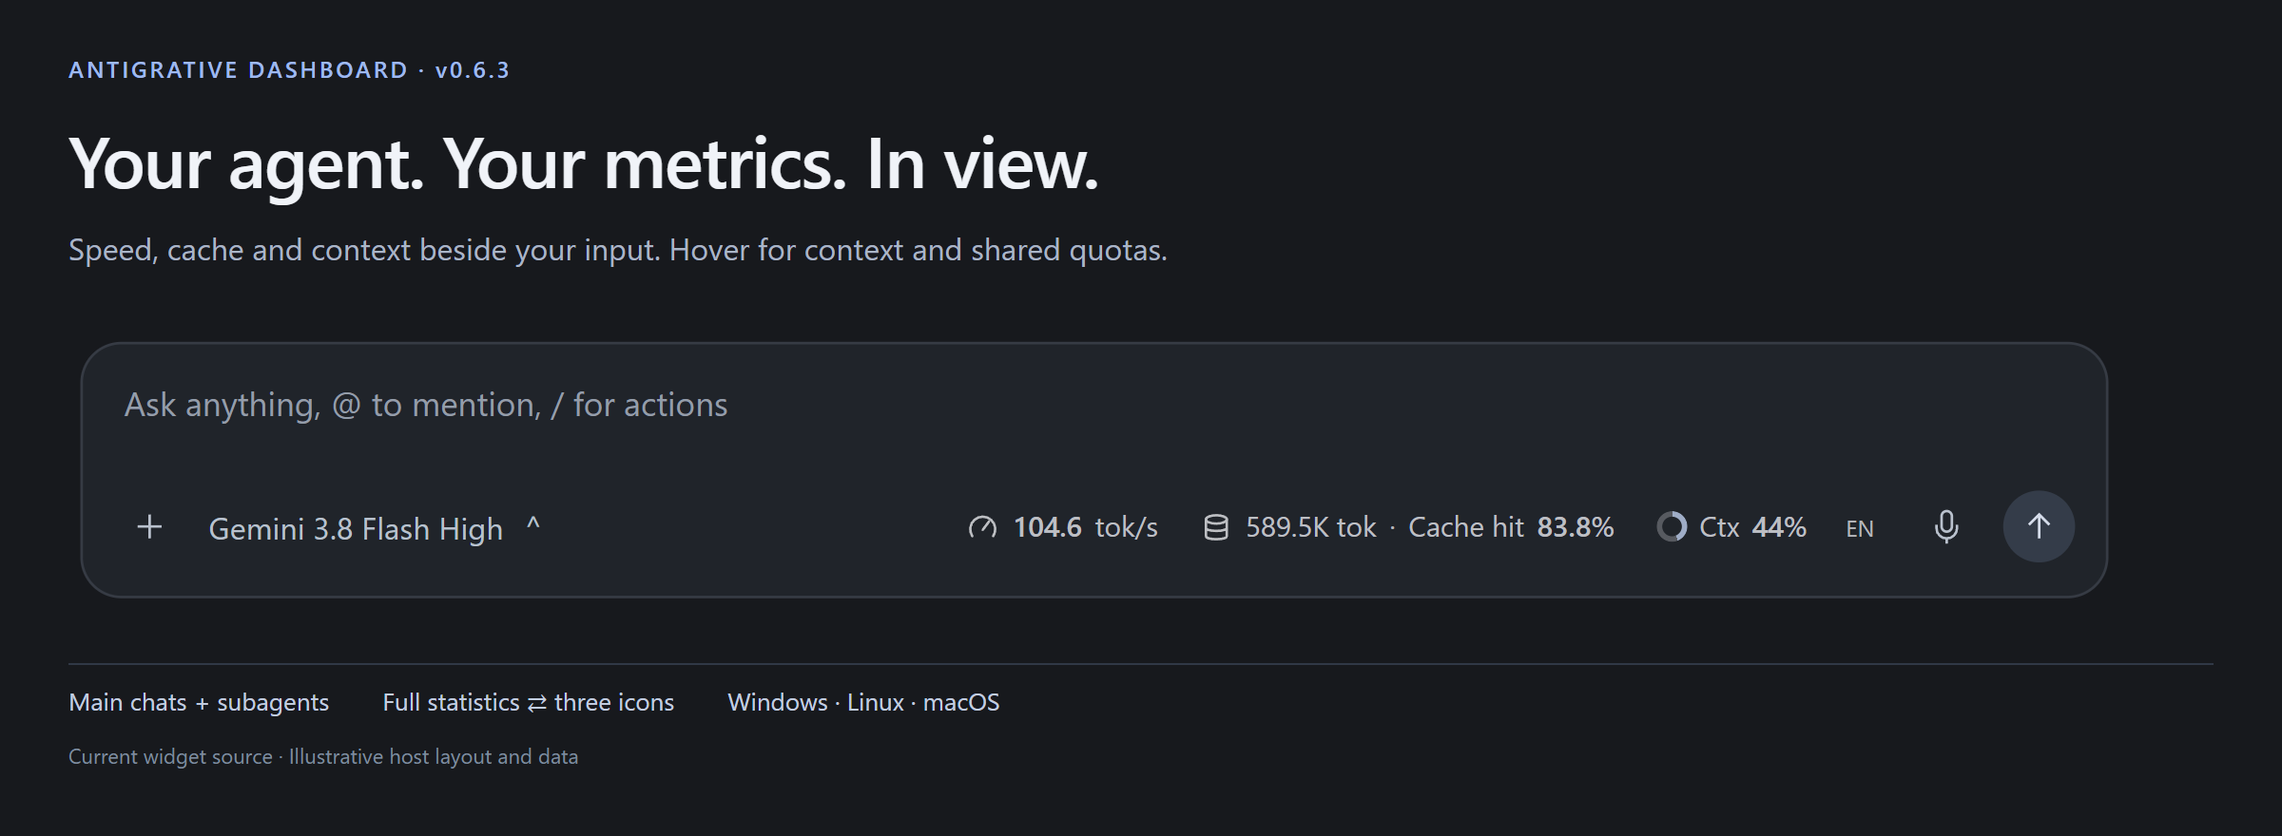
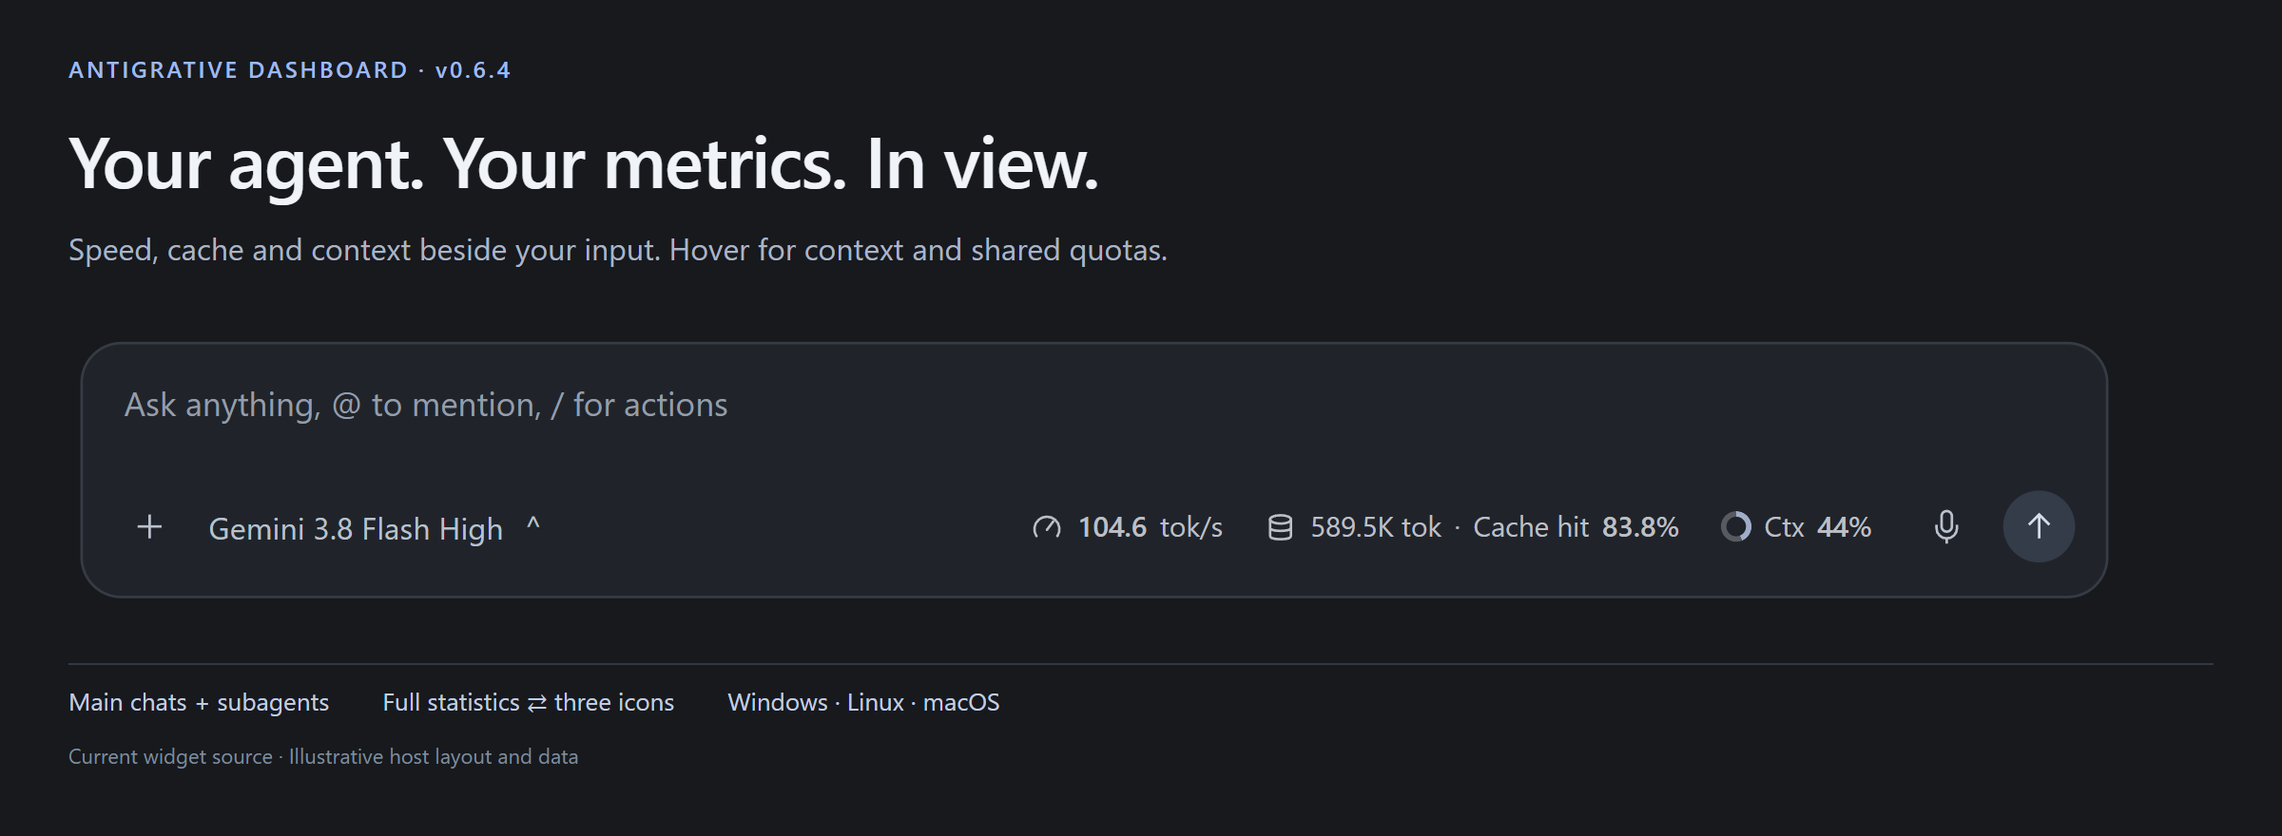
Release v0.6.4: streamline language settings and protect native controls

Changed region(s): [[0.4062, 0.6136, 0.8438, 0.6443]]

diff --git a/GITHUB_RELEASE.md b/GITHUB_RELEASE.md
@@ -1,63 +1,50 @@
-# Antigrative Dashboard v0.6.3
+# Antigrative Dashboard v0.6.4
 
-## Release gate correction
+## Language settings and first-use guidance
 
-- v0.6.2 was not published: the macOS animation-reversal check failed. Its tag remains unchanged; v0.6.3 includes the accepted responsive changes and the correction.
-- Capture interrupted visual positions **before** changing flex layout, eliminating the small reversal jump. Retain source metadata for outgoing labels so rapid reversals can reconstruct their current appearance.
-- Sample intermediate animation frames at exact WAAPI times instead of wall-clock sleeps. Tighten the reversal continuity gate from 45px to **under 1px**; continuous dragging, rapid switching and cleanup still run in real time.
+- Address [issue #6](https://github.com/YOU-SHOULD-KNOW-ME/antigrative-dashboard/issues/6): remove the duplicate toolbar language button. Keep explicit **English / 简体中文** choices at the **bottom of context details**, near the context trigger.
+- English remains the default. To help first-time Chinese users discover the setting, a small bilingual tip points to the context chip. Clicking it opens details, scrolls to the language choices and focuses them. Initial tip display does not take focus from the composer.
+- Selecting either language, including the current language, completes onboarding. Closing the tip keeps the saved language. Completion persists across restarts and renderer origins; failed saves remain visible and retryable.
+- Show the compact guide only in the main composer. Existing saved language choices remain intact; subagent composers do not repeat the guide.
 
-## Responsive motion without resize stutter
+## Current interface
 
-- Add a **240ms interruptible transition** between full statistics and three interactive icons. Values fade out, speed/cache/context icons move into place, and the native model name fades in after the outgoing labels clear. Icon details remain clickable throughout.
-- Fix **resize-drag stutter and trailing copies**: continuing to drag no longer cancels and rebuilds animations every frame. Keep one animation clock per actual density change and crop the existing visual ribbon to current safe bounds.
-- Capture visual elements only for density changes. Avoid repeatedly expanding the strip to measure it while shrinking; filter unrelated control rectangles before reading visibility styles.
-- Use **12px of recovery headroom** to avoid full/icon flicker near the threshold. Content, language and native control changes can trigger fresh fit checks.
-- Preserve host layout styles. Inert, accessibility-hidden visual copies never intercept input; protect native actions and immediately cancel on unsafe placement, navigation, reparenting or disposal.
-- Retain full default motion, with short fades for the system reduced-motion preference. Metric polls and ordinary message scrolling do not replay transitions.
-- Add browser regressions for continuous resize/translation, threshold jitter, animation-layer counts, outgoing-label cleanup and restoration of the full layout. Windows local desktop drag and transition changes passed user acceptance; publishing requires Windows/Linux/macOS automated gates. Signed-in Linux/macOS GUI acceptance remains separate.
+<img src="https://raw.githubusercontent.com/YOU-SHOULD-KNOW-ME/antigrative-dashboard/v0.6.4/docs/assets/hero.png" width="100%" alt="v0.6.4 toolbar without the duplicate language switch">
 
-## Includes the v0.6.1 fixes
+<table><tr><td width="50%" valign="top"><img src="https://raw.githubusercontent.com/YOU-SHOULD-KNOW-ME/antigrative-dashboard/v0.6.4/docs/assets/speed.png" width="100%" alt="Generation speed details"><br><img src="https://raw.githubusercontent.com/YOU-SHOULD-KNOW-ME/antigrative-dashboard/v0.6.4/docs/assets/widget.png" width="100%" alt="Token and cache details"></td><td width="50%" valign="top"><img src="https://raw.githubusercontent.com/YOU-SHOULD-KNOW-ME/antigrative-dashboard/v0.6.4/docs/assets/context.png" width="100%" alt="Context and quota details with English and Chinese choices at the bottom"></td></tr></table>
 
-## Subagent layout and responsive controls
+Figures render the current production widget with illustrative host layouts and sample data.
 
-- Fix [issue #5](https://github.com/YOU-SHOULD-KNOW-ME/antigrative-dashboard/issues/5): the auxiliary pane's Git filter could be mistaken for a model selector, placing the strip over the top toolbar. Mount only beside a valid local composer; reject headers, distant toolbars and ambiguous layouts.
-- Show current subagent throughput, cache and context beside its input box. Detail cards identify **current subagent statistics** and **account-wide shared quotas**. Parent values are never used as a child fallback.
-- When full statistics cannot fit, keep **three interactive icons: speed gauge, token database and context ring**. Hover, click or focus for details. Language switching remains in the context card. Hide only when the icons cannot fit safely or collide with host actions; restore when space returns.
-- Fix disappearance during message scrolling. A message control clipped or covered behind the composer no longer counts as a visible collision. Local composer actions and actually painted floating controls remain protected.
-- Preserve host flex/min-width styles. Recheck after resizing, scrolling, DOM changes and composer replacement; dismiss details when placement is unsafe.
+## Native subagent controls in narrow layouts
 
-## Conversation switching
+- Reserve natural space for the native subagent label and icons. Switch to three plugin icons before the native label wraps or its SVG shrinks.
+- Release the plugin's width, flex space and margins if the three icons cannot fit safely. Restore icons or full statistics when the sidebar closes and space returns.
+- Preserve responsive transitions. Exclude changing width reservations from full-layout probe keys and avoid redundant class changes during dragging.
 
-- Refresh immediately after parent/child navigation, independently of the previous request and polling clock.
-- Reject obsolete successes and failures, including returning to the same conversation after visiting another one. Reject mismatched returned conversation IDs; discard pending work on disposal.
-- Skip full conversation enumeration when the composer supplies its exact ID. Preserve queued manual refresh and rotation feedback.
+## Documentation and verification
+
+- Refresh English/Chinese README and release artwork from the current widget source, including removal of the old rightmost language button. Document the new first-use flow.
+- Include the bounded Windows CI shell-startup correction from the previous maintenance commit.
+- Regression coverage includes first use, no initial focus theft, three-icon guidance, explicit English/Chinese choices, dismissal without language changes, failed-save retry, new-origin/backend persistence and native label/icon geometry.
+- Windows local data, lifecycle and complete production-renderer browser regressions passed. Publication requires Windows/Linux/macOS data, lifecycle and Chromium gates and official desktop resource/SDK checks. The Windows desktop language flow and narrow-layout fixes passed local user acceptance. Signed-in Linux/macOS GUI acceptance remains separate.
+- CLI rendering and metric definitions are unchanged. Local acceptance helpers, account data and private screenshots are excluded.
 
 ## Install or update
 
-Download `antigrative-dashboard-0.6.3.zip` and `.zip.sha256`, verify the checksum and extract. Run from the extracted directory:
+Download `antigrative-dashboard-0.6.4.zip` and `.zip.sha256`, verify the checksum and extract. Run:
 
 ```sh
 python manage.py install
 ```
 
-Use `python3` on Linux/macOS. Fully quit and reopen Antigravity when no task is running so the sidecar loads the new sources. Per-account conversation statistics and language preferences are retained. The same ZIP includes the existing CLI adapter; CLI users can run `python manage.py install-cli` and reopen `agy`.
-
-## Verification and limits
-
-- Windows Antigravity desktop **2.22.0**: real subagent metrics, auxiliary toolbar hit targets and Add menu, parent/child navigation, normal restart and reload were checked. Scroll disappearance was reproduced in a real main conversation and checked at the same position after the fix.
-- Local Node tests: **88 passed, 1 platform skip**. Python lifecycle/package tests: **28 passed, 1 permission skip**. Production-renderer browser regressions passed in English/Chinese, covering icons, covered scroll controls, visible overlays, host styles, stale responses, themes and language persistence.
-- Publication requires Windows/Linux/macOS data, lifecycle and Chromium regressions and the existing official desktop resource/SDK checks. Browser tests use illustrative host fixtures. **Signed-in Linux/macOS desktop GUI acceptance remains outstanding.**
-- Unknown host DOM/SDK/debugging/metric changes may require maintenance. Unsupported layouts decline inline mounting; the native side panel remains available when its SDK is compatible. Arbitrary floating child windows and several simultaneous composers on one page are not promised.
-- CLI behavior and documented metric limits are unchanged. No account details, conversation statistics or local test screenshots are included in this release.
+Use `python3` on Linux/macOS. Fully quit and reopen Antigravity when no task is running. Saved language settings and conversation statistics are retained. The same ZIP contains the CLI adapter; CLI users can run `python manage.py install-cli` and reopen `agy`.
 
 ## 中文摘要
 
-v0.6.2 因 macOS 动画反向检查失败未发布，原标签保留。v0.6.3 修复布局改变后再读取旧动画位置造成的小幅跳变；使用固定动画时间采样，将反向连续性检查收紧至 1px 以内，连续拖动仍用真实时间验证。
+采纳 Issue #6 建议，移除状态条上重复且低频的语言按钮，保留上下文详情最底部的 **English / 简体中文** 切换。
 
-v0.6.3 为完整统计与三个图标加入平滑过渡：文字淡出、图标收拢、模型名称淡入，支持反向切换且按钮始终可点击。修复拖动时逐帧重建动画造成的卡顿与残影；复用同一次过渡，仅调整安全裁剪。恢复完整数值留出 12px 余量，避免临界宽度来回闪切。默认完整动画保留，Windows 本地验收已通过。
+考虑到默认英文，首次中文用户可能找不到隐藏的切换入口，加入轻量双语提示；点击即可打开详情并定位到底部语言选项。提示出现时不抢输入焦点，仅在主对话显示。选择语言或关闭提示后，完成状态跨重启保存；关闭提示不会改变已有语言，保存失败允许重试。
 
-包含 v0.6.1 的 Issue #5 子代理工具栏重叠修复，展示子代理自己的速度、缓存率和上下文，额度注明账号共享。窄窗口先保留仪表盘、数据库、上下文圆圈三个可交互图标，连图标都放不下才隐藏，拉宽后恢复；语言可在上下文详情中切换。
+修复侧边栏挤压子代理输入框时原生标签换行、图标缩小的问题：先为原生控件预留空间，再收缩为三个图标；连图标都放不下时释放全部插件占位，空间恢复后自动展开。保留已有过渡动画与拖动优化。
 
-同时修复滚动时把输入框后面的消息按钮误判为碰撞，以及父子对话切换等待旧请求的问题。旧请求成功、失败及返回同一对话后的晚到响应都不能覆盖新数值。Windows 真实界面已验证；Linux/macOS 共用代码并运行 CI，登录后的实机 GUI 验收仍未完成。
-
-解压后运行 `python manage.py install`（Linux/macOS 用 `python3`），无任务运行时完全退出重开 Antigravity。保留语言与对话统计；同一 ZIP 继续包含 CLI 适配器。
+中英文 README 和本发布页演示图均使用当前源码重新渲染，移除旧版最右侧语言按钮。示意宿主及示例数据用于展示，不包含账号或对话内容。Windows 本地验收已通过；三平台自动测试作为发布门槛，Linux/macOS 登录后的实机 GUI 验收仍待单独确认。

diff --git a/README.md b/README.md
@@ -1,13 +1,13 @@
 <div align="center">
 
-<img src="docs/assets/hero.png?v=0.6.3" width="100%" alt="Antigrative Dashboard v0.6.3: current speed, cache and context controls beside the input.">
+<img src="docs/assets/hero.png?v=0.6.3" width="100%" alt="Antigrative Dashboard v0.6.4: current speed, cache and context controls beside the input.">
 
 # Antigrative Dashboard
 
 Token throughput, cache hits and context usage in the model selector row. Hover over context for five-hour and weekly quotas too.<br>
 Keep the summary visible. Hover for the details.
 
-[![Version 0.6.3](https://img.shields.io/badge/version-0.6.3-91adff?style=flat-square&labelColor=252936)](CHANGELOG.md)
+[![Version 0.6.4](https://img.shields.io/badge/version-0.6.4-91adff?style=flat-square&labelColor=252936)](CHANGELOG.md)
 [![Platforms](https://img.shields.io/badge/host-Windows%20%7C%20Linux%20%7C%20macOS-83d8b9?style=flat-square&labelColor=252936)](COMPATIBILITY.md)
 [![Antigravity 2.21.1 / 2.22.0](https://img.shields.io/badge/Antigravity-2.21.1%20%2F%202.22.0-c5a0ff?style=flat-square&labelColor=252936)](COMPATIBILITY.md)
 [![MIT](https://img.shields.io/badge/license-MIT-d4d9e6?style=flat-square&labelColor=252936)](LICENSE)
@@ -16,7 +16,7 @@ Keep the summary visible. Hover for the details.
 
 </div>
 
-**v0.6.3:** Smooth, interruptible transitions between full statistics and three interactive icons, with a coordinated model-name reveal. Continuous resizing keeps one animation clock and avoids trailing copies or density flicker. Includes the subagent placement, conversation-switching and scroll fixes from v0.6.1 ([#5](https://github.com/YOU-SHOULD-KNOW-ME/antigrative-dashboard/issues/5)). [Full release notes](https://github.com/YOU-SHOULD-KNOW-ME/antigrative-dashboard/releases/tag/v0.6.3).
+**v0.6.4:** Remove the duplicate toolbar language button and add a small bilingual first-use guide ([#6](https://github.com/YOU-SHOULD-KNOW-ME/antigrative-dashboard/issues/6)). English / 简体中文 choices remain at the bottom of context details. Narrow subagent composers now preserve native label and icon sizes, releasing plugin space when necessary. Includes the existing smooth responsive transitions. [Full release notes](https://github.com/YOU-SHOULD-KNOW-ME/antigrative-dashboard/releases/tag/v0.6.4).
 
 ## Preview
 
@@ -51,6 +51,7 @@ Keep the summary visible. Hover for the details.
 - **Survives updates.** Plugin-owned runtime attachment reconnects after app updates, without modifying the application archive.
 - **Persistent conversations.** TPS and cache statistics are saved separately for each conversation and account; reloads can recover saved statistics.
 - **Compact-window support.** Full statistics reduce to three clickable icons (speed, cache and context) when space is limited. Hover or click for details; language switching stays available in the context card. The strip hides only if the icons cannot fit safely and restores when space returns. Message controls hidden behind the composer do not cause scroll flicker.
+- **Discoverable language settings.** English is the default. A compact bilingual first-use tip beside context opens the English / 简体中文 choices at the bottom of its detail card. Choosing a language or closing the tip saves completion, so it does not return on restart. Closing the tip does not change the language; failed saves offer a retry. Subagent composers do not repeat the tip.
 - **Theme adaptation.** Controls, cards and quota menus follow Antigravity's light/dark mode and custom background, card, text and accent colors, with readable text and OS fallback in standalone previews. Live changes require no restart or conversation reload.
 - **Local collection.** The collector talks to loopback endpoints. It does not upload your metrics to a third-party service.
 

diff --git a/README.zh-CN.md b/README.zh-CN.md
@@ -1,13 +1,13 @@
 <div align="center">
 
-<img src="docs/assets/hero-zh.png?v=0.6.3" width="100%" alt="Antigrative Dashboard v0.6.3：最新版速度、缓存和上下文控件，就在输入框旁。">
+<img src="docs/assets/hero-zh.png?v=0.6.3" width="100%" alt="Antigrative Dashboard v0.6.4：最新版速度、缓存和上下文控件，就在输入框旁。">
 
 # Antigrative Dashboard
 
 模型选择旁只显示生成速率、缓存和上下文占用；悬停上下文，一并查看上下文、5 小时和周额度详情。<br>
 缩略信息常驻；鼠标悬停，才展开详细统计。
 
-[![Version 0.6.3](https://img.shields.io/badge/version-0.6.3-91adff?style=flat-square&labelColor=252936)](CHANGELOG.md)
+[![Version 0.6.4](https://img.shields.io/badge/version-0.6.4-91adff?style=flat-square&labelColor=252936)](CHANGELOG.md)
 [![Platforms](https://img.shields.io/badge/host-Windows%20%7C%20Linux%20%7C%20macOS-83d8b9?style=flat-square&labelColor=252936)](COMPATIBILITY.md)
 [![Antigravity 2.21.1 / 2.22.0](https://img.shields.io/badge/Antigravity-2.21.1%20%2F%202.22.0-c5a0ff?style=flat-square&labelColor=252936)](COMPATIBILITY.md)
 [![MIT](https://img.shields.io/badge/license-MIT-d4d9e6?style=flat-square&labelColor=252936)](LICENSE)
@@ -16,7 +16,7 @@
 
 </div>
 
-**v0.6.3 更新：** 完整数值与三个图标之间加入可打断的平滑过渡，模型名称配合淡入；连续拖动不再重复重建动画，避免拖尾残影和临界宽度闪切。包含 v0.6.1 的子代理重叠、父子对话切换等待和滚动误隐藏修复（[#5](https://github.com/YOU-SHOULD-KNOW-ME/antigrative-dashboard/issues/5)）。[完整更新说明](https://github.com/YOU-SHOULD-KNOW-ME/antigrative-dashboard/releases/tag/v0.6.3)。
+**v0.6.4 更新：** 移除状态条重复语言按钮，加入轻量首次双语引导（[#6](https://github.com/YOU-SHOULD-KNOW-ME/antigrative-dashboard/issues/6)），English / 简体中文切换保留在上下文详情底部。同时修复侧边栏挤压子代理输入框时，原生标签换行、图标缩小的问题；保留已有平滑自适应过渡。[完整更新说明](https://github.com/YOU-SHOULD-KNOW-ME/antigrative-dashboard/releases/tag/v0.6.4)。
 
 ## 看看效果
 
@@ -129,7 +129,9 @@ python manage.py install
 
 ### 语言与缓存
 
-默认英文。状态条的 **EN** 按钮切换中文，**中** 切回英文，选择会保存。缓存卡按 DSH 逻辑显示总 token、缓存命中、未缓存输入、缓存读取与输出；缓存写入非零时显示额外一行。
+默认英文。首次使用时，主对话上下文控件旁会出现轻量双语提示；点击后打开详情并定位到底部的 **English / 简体中文** 按钮。语言选择会保存，之后仍可随时在上下文详情底部切换。选择语言或关闭提示后不再重复引导；关闭提示不会改变已有语言，保存失败会显示提示并允许重试。子代理界面不重复显示首次引导。
+
+缓存卡按 DSH 逻辑显示总 token、缓存命中、未缓存输入、缓存读取与输出；缓存写入非零时显示额外一行。
 
 Antigravity 的 `inputTokens` 是未缓存输入。缓存率 = 缓存读取 ÷（未缓存输入 + 缓存读取 + 缓存写入），不是把缓存写入算作命中。总 token = 总输入 + 输出。
 

diff --git a/CHANGELOG.md b/CHANGELOG.md
@@ -1,8 +1,12 @@
 # Changelog
 
-## Unreleased — CI maintenance
+## 0.6.4 — 2026-10-10
 
-- Refresh English/Chinese README artwork from the v0.6.3 widget: full and icon layouts, separate subagent statistics, speed/cache details and combined context/quotas. Use one color theme and a compact two-column detail layout; read the version from the manifest when regenerating images.
+- Address [#6](https://github.com/YOU-SHOULD-KNOW-ME/antigrative-dashboard/issues/6): remove the duplicate toolbar language button; retain explicit English / 简体中文 choices at the bottom of context details. Add a compact bilingual first-use tip beside the context chip so users can find the setting despite the English default. Opening the tip locates and focuses the language choices without stealing focus on initial display.
+- Persist guide completion independently of the renderer origin. Closing the tip keeps the current language; successfully choosing either language completes onboarding. Failed saves remain visible and retryable. Show the guide in the main composer only; existing saved language choices are retained.
+- Protect native subagent labels and SVG sizes when the sidebar narrows the composer. Reserve their natural width, switch to three icons earlier, release all plugin flex space if the icons cannot fit, and restore full statistics when space returns. Avoid repeated full-layout probes and no-op class mutations during continuous dragging.
+- Add first-use, dismissal, explicit language choice, save-failure retry, fresh-origin/backend persistence and native-label/icon geometry regressions.
+- Refresh English/Chinese README and release artwork from the v0.6.4 widget, without the duplicate toolbar language button: full and icon layouts, separate subagent statistics, speed/cache details and combined context/quotas with language choices at the bottom. Use one color theme and compact two-column details; read the version from the manifest when regenerating images.
 - Allow up to 30 seconds for the CLI shell-transport test on Windows CI, where cold CMD/PowerShell/Node startup exceeded the previous 10-second limit. Keep the exit-code and exact rendered-output assertions, with no automatic test retry. Desktop and CLI runtime behavior is unchanged.
 
 ## 0.6.3 — 2026-10-10
